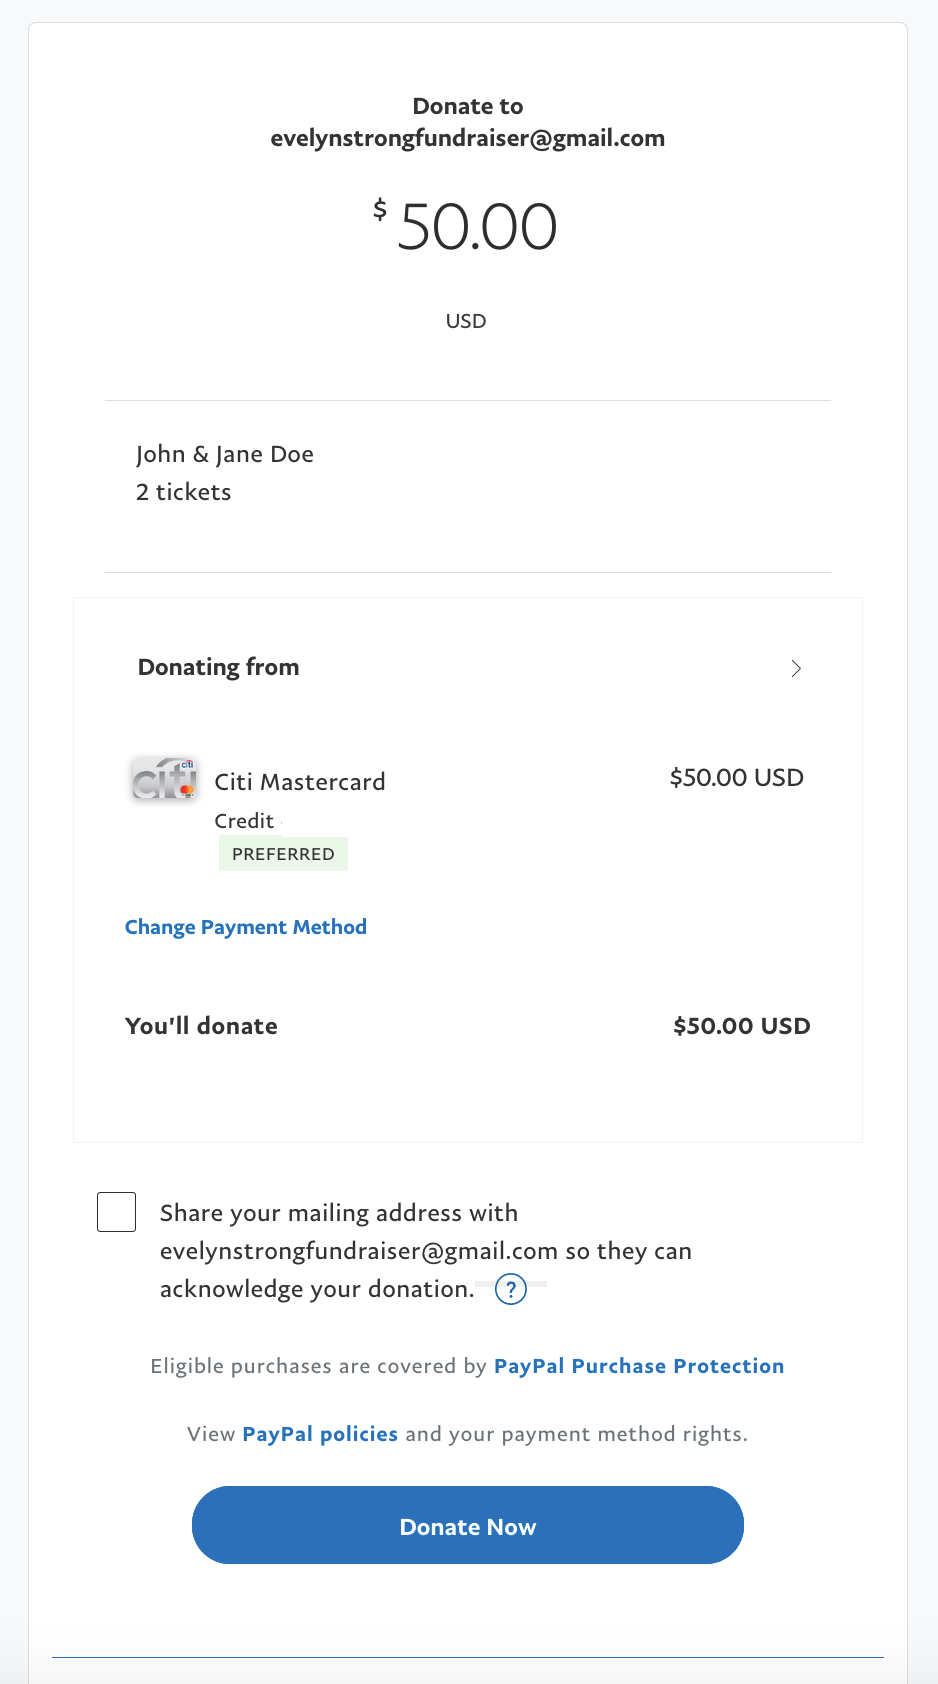
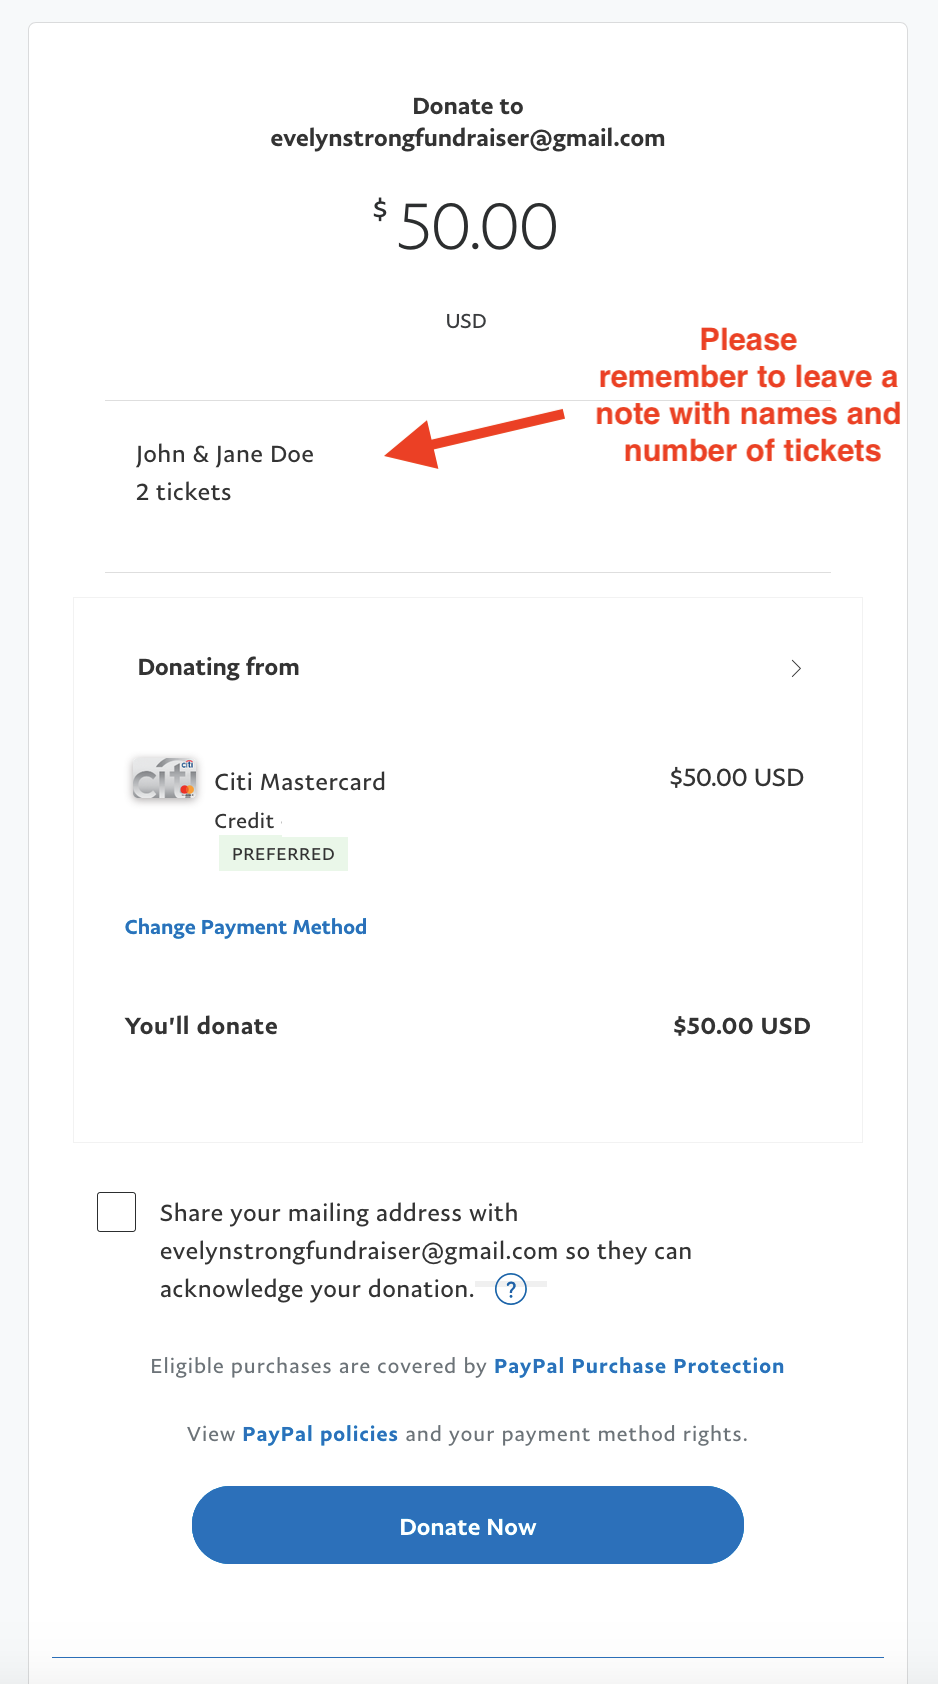
update images, add note for writing names

Changed region(s): [[0.6183, 0.1853, 0.9584, 0.2779], [0.4019, 0.247, 0.5874, 0.2779]]

diff --git a/index.html b/index.html
@@ -295,6 +295,14 @@
       <div class="col-md-12" style="margin-top: 50px; padding: 25px;">
         <h2>Ticket Purchase Instructions</h2>
         <hr />
+        <blockquote class="blockquote blockquote-custom bg-white p-4 shadow rounded">
+          <div class="blockquote-custom-icon bg-info shadow-sm"><i class="fa fa-quote-left text-white"></i></div>
+          <p class="mb-0 mt-2 font-italic"><b>Special Note: <br />When buying tickets, please remember to write in the
+              names and
+              number of tickets<br /> into the Notes section when purchasing tickets</b></p>
+        </blockquote><!-- END -->
+
+        <p style="font-size: 20px;"></p>
         <div style="">
           <ol style="display:table; margin:0 auto;">
             <li>Click donate button
@@ -310,7 +318,9 @@
                 </form>
               </p>
             </li>
-            <li>Enter donation amount ($25.00 per adult)</li>
+            <li>Enter donation amount ($25.00 per adult)
+              <p><img src="img/paypal-note2.png" style="display: block; max-height: 250px; max-width: 90%;" /></p>
+            </li>
             <li>Either Sign-in to paypal or enter credit card information
               <p><img src="img/paypal-or-credit.png" style="display: block; max-height: 250px; max-width: 90%;" /></p>
             </li>
